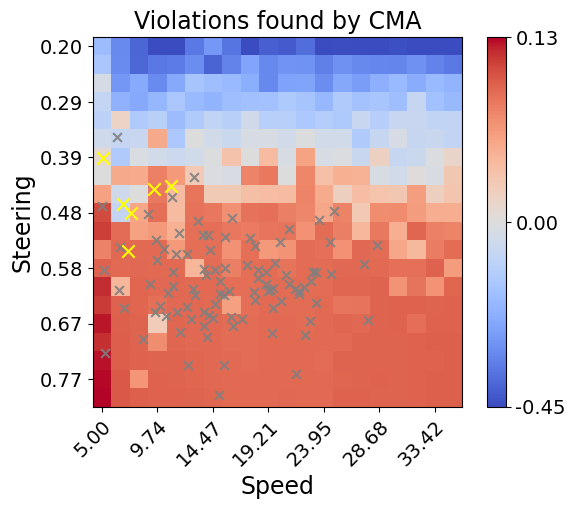
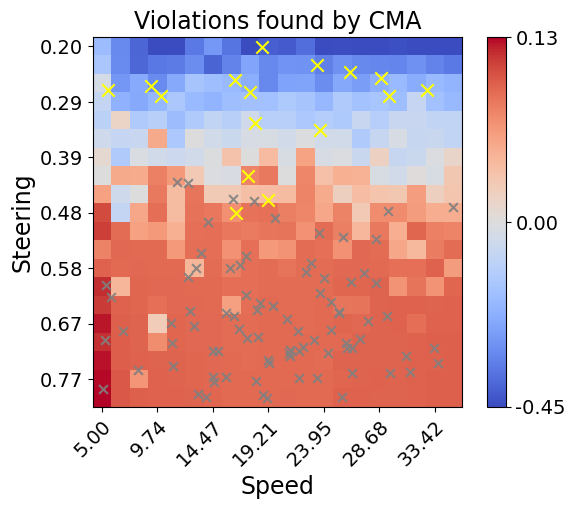
Merge changes of cma+heuristic for gym envs

diff --git a/tests/test_cartpole_dqn_cma.py b/tests/test_cartpole_dqn_cma.py
@@ -5,13 +5,16 @@ import numpy as np
 
 from robustness.agents.cartpole import DQN
 from robustness.analysis import Problem
-from robustness.analysis.algorithms import CMASolver, CMASystemEvaluator, CMASystemEvaluatorWithHeuristic
+from robustness.analysis.algorithms import (CMASolver, CMASystemEvaluator, RandomSolver)
 from robustness.analysis.utils import L2Norm, normalize
 from robustness.envs.cartpole import DevCartPole, SafetyProp
 from robustness.evaluation import Evaluator, Experiment
 from robustness.evaluation.utils import boxplot
 
-os.makedirs('gifs/cartpole-dqn', exist_ok=True)
+# remove all fils under the data folder
+os.system('rm -rf tests/data/cartpole-dqn/cma')
+
+os.makedirs('tests/gifs/cartpole-dqn', exist_ok=True)
 plt.rc('axes', labelsize=17, titlesize=17)
 plt.rc('xtick', labelsize=14)
 plt.rc('ytick', labelsize=14)
@@ -26,29 +29,26 @@ phi = SafetyProp()
 
 # Create problem and solver
 prob = Problem(env, agent, phi, L2Norm(env))
-sys_eval_0 = CMASystemEvaluator(0.4, phi, {'restarts': 1, 'evals': 50, 'episode_len': 200})
-sys_eval_0.eval_sys(env.get_delta_0(), prob)
-delta_0_signals = sys_eval_0.obj_best_signal_values
-sys_eval = CMASystemEvaluatorWithHeuristic(
-    0.4, phi, delta_0_signals,
-    {'restarts': 1, 'evals': 50, 'episode_len': 200}
+sys_eval = CMASystemEvaluator(
+    0.4, phi,
+    {'restarts': 1, 'evals': 5, 'episode_len': 200}
 )
 
 # Use CMA
-solver = CMASolver(0.2, sys_eval, {'restarts': 1, 'evals': 50})
+solver = CMASolver(0.2, sys_eval, {'restarts': 1, 'evals': 5})
 evaluator = Evaluator(prob, solver)
 experiment = Experiment(evaluator)
 
 print('Find violations by CMA...')
-records_cma = experiment.record_min_violations(out_dir='data/cartpole-dqn/cma_heuristic')
-records_cma, violations_cma = experiment.summarize_violations(records_cma, 'data/cartpole-dqn/cma_heuristic')
+records_cma = experiment.record_min_violations(out_dir='tests/data/cartpole-dqn/cma', runs=1)
+records_cma, violations_cma = experiment.summarize_violations(records_cma, 'tests/data/cartpole-dqn/cma')
 # Plot all samples
 for i in range(len(records_cma)):
     samples = [(X, Y) for (X, Y, _) in records_cma[i]]
     experiment.plot_samples(samples,  'Mass', 'Force', 'data/cartpole-dqn', n=20)
     plt.title('Violations found by CMA')
-    plt.savefig(f'gifs/cartpole-dqn/fig-violations-cma-heuristic-{i}.png', bbox_inches='tight')
+    plt.savefig(f'tests/gifs/cartpole-dqn/fig-violations-cma-{i}.png', bbox_inches='tight')
 
 experiment.plot_samples([[(X, Y) for (X, Y, _) in r] for r in records_cma],  'Mass', 'Force', 'data/cartpole-dqn', n=20)
 # plt.title('Cart-Pole-DQN with CMA')
-plt.savefig(f'gifs/cartpole-dqn/fig-violations-cma-heuristic-all.png', bbox_inches='tight')
+plt.savefig(f'tests/gifs/cartpole-dqn/fig-violations-cma-all.png', bbox_inches='tight')

diff --git a/tests/test_WTK_T_baseline.py b/tests/test_WTK_T_baseline.py
@@ -1,0 +1,58 @@
+import os
+
+import matplotlib.pyplot as plt
+from matlab import engine
+
+from robustness.agents.matlab import Traditional
+from robustness.analysis.algorithms.breach import BreachOneLayerSystemEvaluator
+from robustness.analysis.algorithms.one_layer import OneLayerSolver
+from robustness.analysis.breach import BreachSTL
+from robustness.analysis.core import Problem
+from robustness.analysis.utils import L2Norm
+from robustness.envs.matlab import DevWTKBaseline
+from robustness.evaluation.evaluator import Evaluator
+from robustness.evaluation.experiment import Experiment
+
+# remove all fils under the data folder
+os.system('rm -rf tests/data/WTK/traditional/ol')
+
+os.makedirs('tests/gifs/WTK/traditional', exist_ok=True)
+plt.rc('axes', labelsize=17, titlesize=17)
+plt.rc('xtick', labelsize=14)
+plt.rc('ytick', labelsize=14)
+plt.rc('legend', fontsize=14)
+
+eng = engine.start_matlab()
+eng.addpath('lib/breach', nargout=0)
+eng.addpath(eng.genpath('models/WTK'), nargout=0)
+eng.InitBreach(nargout=0)
+
+in_rates = [0.01, 0.5]
+out_rates = [0.01, 0.2]
+env = DevWTKBaseline(eng, in_rates, out_rates, (0.25, 0.1))
+agent = Traditional()
+phi = BreachSTL('alw_[5,5.9](abs(h_error[t]) < 1) and ' + \
+                'alw_[11,11.9](abs(h_error[t]) < 1) and ' + \
+                'alw_[17,17.9](abs(h_error[t]) < 1) and ' + \
+                'alw_[23,23.9](abs(h_error[t]) < 1)')
+
+prob = Problem(env, agent, phi, L2Norm(env))
+sys_eval = BreachOneLayerSystemEvaluator(eng, phi, {'restarts': 0, 'evals': 10})
+
+solver = OneLayerSolver(sys_eval, ['in_rate', 'out_rate'], {'restarts': 0, 'evals': 10})
+evaluator = Evaluator(prob, solver)
+experiment = Experiment(evaluator)
+
+print('Find violations by OneLayer...')
+records_ol = experiment.record_min_violations(out_dir='tests/data/WTK/traditional/ol', runs=1)
+records_ol, violations_ol = experiment.summarize_violations(records_ol, 'tests/data/WTK/traditional/ol')
+# Plot the samples
+for i in range(len(records_ol)):
+    samples = [(X, Y) for (X, Y, _) in records_ol[i]]
+    experiment.plot_samples(samples, 'Inflow rate', 'Outflow rate', 'data/WTK/traditional', n=20)
+    plt.title('Violations found by OneLayer')
+    plt.savefig(f'tests/gifs/WTK/traditional/fig-violations-ol-{i}.png', bbox_inches='tight')
+
+experiment.plot_samples([[(X, Y) for (X, Y, _) in r] for r in records_ol], 'Inflow rate', 'Outflow rate', 'data/WTK/traditional', n=20)
+# plt.title('WTK-PID with OneLayer')
+plt.savefig(f'tests/gifs/WTK/traditional/fig-violations-ol-all.png', bbox_inches='tight')

diff --git a/tests/test_cartpole_dqn_cma_heuristics.py b/tests/test_cartpole_dqn_cma_heuristics.py
@@ -11,7 +11,10 @@ from robustness.envs.cartpole import DevCartPole, SafetyProp
 from robustness.evaluation import Evaluator, Experiment
 from robustness.evaluation.utils import boxplot
 
-os.makedirs('gifs/cartpole-dqn', exist_ok=True)
+# remove all fils under the data folder
+os.system('rm -rf tests/data/cartpole-dqn/cma_heuristic')
+
+os.makedirs('tests/gifs/cartpole-dqn', exist_ok=True)
 plt.rc('axes', labelsize=17, titlesize=17)
 plt.rc('xtick', labelsize=14)
 plt.rc('ytick', labelsize=14)
@@ -26,29 +29,29 @@ phi = SafetyProp()
 
 # Create problem and solver
 prob = Problem(env, agent, phi, L2Norm(env))
-sys_eval_0 = CMASystemEvaluator(0.4, phi, {'restarts': 1, 'evals': 50, 'episode_len': 200})
+sys_eval_0 = CMASystemEvaluator(0.4, phi, {'restarts': 1, 'evals': 10, 'episode_len': 200})
 sys_eval_0.eval_sys(env.get_delta_0(), prob)
 delta_0_signals = sys_eval_0.obj_best_signal_values
 sys_eval = CMASystemEvaluatorWithHeuristic(
     0.4, phi, delta_0_signals,
-    {'restarts': 1, 'evals': 50, 'episode_len': 200}
+    {'restarts': 1, 'evals': 10, 'episode_len': 200}
 )
 
 # Use CMA
-solver = CMASolver(0.2, sys_eval, {'restarts': 1, 'evals': 50})
+solver = CMASolver(0.2, sys_eval, {'restarts': 0, 'evals': 5})
 evaluator = Evaluator(prob, solver)
 experiment = Experiment(evaluator)
 
 print('Find violations by CMA...')
-records_cma = experiment.record_min_violations(out_dir='data/cartpole-dqn/cma_heuristic')
-records_cma, violations_cma = experiment.summarize_violations(records_cma, 'data/cartpole-dqn/cma_heuristic')
+records_cma = experiment.record_min_violations(out_dir='tests/data/cartpole-dqn/cma_heuristic', runs=1)
+records_cma, violations_cma = experiment.summarize_violations(records_cma, 'tests/data/cartpole-dqn/cma_heuristic')
 # Plot all samples
 for i in range(len(records_cma)):
     samples = [(X, Y) for (X, Y, _) in records_cma[i]]
     experiment.plot_samples(samples,  'Mass', 'Force', 'data/cartpole-dqn', n=20)
     plt.title('Violations found by CMA')
-    plt.savefig(f'gifs/cartpole-dqn/fig-violations-cma-heuristic-{i}.png', bbox_inches='tight')
+    plt.savefig(f'tests/gifs/cartpole-dqn/fig-violations-cma-heuristic-{i}.png', bbox_inches='tight')
 
 experiment.plot_samples([[(X, Y) for (X, Y, _) in r] for r in records_cma],  'Mass', 'Force', 'data/cartpole-dqn', n=20)
 # plt.title('Cart-Pole-DQN with CMA')
-plt.savefig(f'gifs/cartpole-dqn/fig-violations-cma-heuristic-all.png', bbox_inches='tight')
+plt.savefig(f'tests/gifs/cartpole-dqn/fig-violations-cma-heuristic-all.png', bbox_inches='tight')

diff --git a/robustness/analysis/algorithms/cma.py b/robustness/analysis/algorithms/cma.py
@@ -2,13 +2,14 @@ import cma
 import numpy as np
 
 from robustness.analysis import *
-from robustness.analysis.utils import normalize, scale
+from robustness.analysis.utils import compute_cosine_similarity, normalize, scale
 
 
 class CMASystemEvaluator(SystemEvaluator):
     def __init__(self, sigma, phi: TraceEvaluator, opts=None):
         super().__init__(phi, opts)
         self.sigma = sigma
+        self.obj_best_signal_values = None
     
     def eval_sys(self, delta, problem: Problem):
         timeout = self._options['timeout']
@@ -18,9 +19,17 @@ class CMASystemEvaluator(SystemEvaluator):
         env, x0_bounds = problem.env.instantiate(delta)
         min_v = np.inf
         min_x0 = None
+        logger = {}
+
+        def eval_trace(x):
+            scaled_x = scale(x, x0_bounds)
+            v = self._eval_trace(scaled_x, env, problem.agent)
+            logger[tuple(scaled_x)] = (v, self.last_obs_record)
+            return v
+
         for _ in range(1 + restarts):
             x, es = cma.fmin2(
-                lambda x: self._eval_trace(scale(x, x0_bounds), env, problem.agent),
+                eval_trace,
                 lambda: np.random.rand(len(x0_bounds)),
                 self.sigma,
                 {'bounds': [0.0, 1.0], 'maxfevals': max_evals, 'timeout': timeout * 60, 'verbose': -9},
@@ -30,7 +39,21 @@ class CMASystemEvaluator(SystemEvaluator):
                 min_v = v
                 min_x0 = x0
         env.close()
+        self.obj_best_signal_values = logger[tuple(min_x0)][1]
         return min_v, min_x0
+
+
+class CMASystemEvaluatorWithHeuristic(CMASystemEvaluator):
+    def __init__(self, sigma, phi: TraceEvaluator, delta_0_signals, opts=None):
+        super().__init__(sigma, phi, opts)
+        self.delta_0_signals = delta_0_signals
+        self.obj_best = None
+    
+    def eval_sys(self, delta, problem: Problem):
+        obj_best, x0 = super().eval_sys(delta, problem)
+        self.obj_best = obj_best
+        cos_similarity = compute_cosine_similarity(self.delta_0_signals, self.obj_best_signal_values)
+        return obj_best + cos_similarity, x0
 
 
 class CMASolver(Solver):

diff --git a/scripts/heuristics/car_run.py b/scripts/heuristics/car_run.py
@@ -1,6 +1,3 @@
-'''
-This is a temp script for generating images, the data is not generated by this script.
-'''
 import os
 
 import matplotlib.pyplot as plt
@@ -9,7 +6,7 @@ import numpy as np
 from robustness.agents.rsrl import PPOVanilla
 from robustness.analysis import Problem
 from robustness.analysis.algorithms import (CMASolver, CMASystemEvaluator,
-                                            RandomSolver)
+                                            CMASystemEvaluatorWithHeuristic)
 from robustness.analysis.utils import L2Norm, scale, normalize
 from robustness.envs.car_run import DevCarRun, SafetyProp, SafetyProp2
 from robustness.evaluation import Evaluator, Experiment
@@ -29,8 +26,11 @@ agent = PPOVanilla(load_dir)
 phi = SafetyProp(env.instantiate(env.get_delta_0())[0])
 
 prob = Problem(env, agent, phi, L2Norm(env))
-sys_eval = CMASystemEvaluator(
-    0.4, phi,
+sys_eval_0 = CMASystemEvaluator(0.4, phi, {'restarts': 1, 'evals': 50, 'episode_len': 200})
+sys_eval_0.eval_sys(env.get_delta_0(), prob)
+delta_0_signals = sys_eval_0.obj_best_signal_values
+sys_eval = CMASystemEvaluatorWithHeuristic(
+    0.4, phi, delta_0_signals,
     {'restarts': 1, 'episode_len': 200, 'evals': 50}
 )
 

diff --git a/scripts/heuristics/car_circle.py b/scripts/heuristics/car_circle.py
@@ -1,6 +1,3 @@
-'''
-This script generates figures, the data is generated in another script.
-'''
 import os
 
 import matplotlib.pyplot as plt
@@ -9,7 +6,7 @@ import numpy as np
 from robustness.agents.rsrl import PPOVanilla
 from robustness.analysis import Problem
 from robustness.analysis.algorithms import (CMASolver, CMASystemEvaluator,
-                                            RandomSolver)
+                                            CMASystemEvaluatorWithHeuristic)
 from robustness.analysis.utils import L2Norm, normalize
 from robustness.envs.car_circle import DevCarCircle, SafetyProp, SafetyProp2
 from robustness.evaluation import Evaluator, Experiment
@@ -29,8 +26,11 @@ agent = PPOVanilla(load_dir)
 phi = SafetyProp()
 
 prob = Problem(env, agent, phi, L2Norm(env))
-sys_eval = CMASystemEvaluator(
-    0.4, phi,
+sys_eval_0 = CMASystemEvaluator(0.4, phi, {'restarts': 1, 'evals': 50, 'episode_len': 300})
+sys_eval_0.eval_sys(env.get_delta_0(), prob)
+delta_0_signals = sys_eval_0.obj_best_signal_values
+sys_eval = CMASystemEvaluatorWithHeuristic(
+    0.4, phi, delta_0_signals,
     {'restarts': 1, 'episode_len': 300, 'evals': 50}
 )
 

diff --git a/scripts/heuristics/lunar_lander_ppo.py b/scripts/heuristics/lunar_lander_ppo.py
@@ -1,6 +1,3 @@
-'''
-This script only generates figures, the data is generated in another script.
-'''
 import os
 
 import matplotlib.pyplot as plt
@@ -8,7 +5,7 @@ import numpy as np
 
 from robustness.agents.lunar_lander import PPO
 from robustness.analysis import Problem
-from robustness.analysis.algorithms import (CMASolver, CMASystemEvaluator, RandomSolver)
+from robustness.analysis.algorithms import (CMASolver, CMASystemEvaluator, CMASystemEvaluatorWithHeuristic)
 from robustness.analysis.utils import L2Norm, normalize
 from robustness.envs.lunar_lander import DevLunarLander, SafetyProp
 from robustness.evaluation import Evaluator, Experiment
@@ -27,8 +24,11 @@ agent = PPO('models/lunar-lander/ppo.zip')
 phi = SafetyProp()
 
 prob = Problem(env, agent, phi, L2Norm(env))
-sys_eval = CMASystemEvaluator(
-    0.4, phi, 
+sys_eval_0 = CMASystemEvaluator(0.4, phi, {'restarts': 1, 'evals': 50, 'episode_len': 300})
+sys_eval_0.eval_sys(env.get_delta_0(), prob)
+delta_0_signals = sys_eval_0.obj_best_signal_values
+sys_eval = CMASystemEvaluatorWithHeuristic(
+    0.4, phi, delta_0_signals,
     {'restarts': 1, 'episode_len': 300, 'evals': 50}
 )
 

diff --git a/robustness/analysis/core.py b/robustness/analysis/core.py
@@ -46,6 +46,7 @@ class SystemEvaluator:
         }
         if opts is not None:
             self._options.update(opts)
+        self.last_obs_record = None
     
     def set_options(self, opts):
         self._options.update(opts)
@@ -72,6 +73,7 @@ class SystemEvaluator:
             obs_record.append(np.clip(obs, space.low, space.high))
             reward_record.append(reward)
         
+        self.last_obs_record = np.array(obs_record)
         return self.phi.eval_trace(np.array(obs_record), np.array(reward_record))
 
     def get_all_traces(self):
